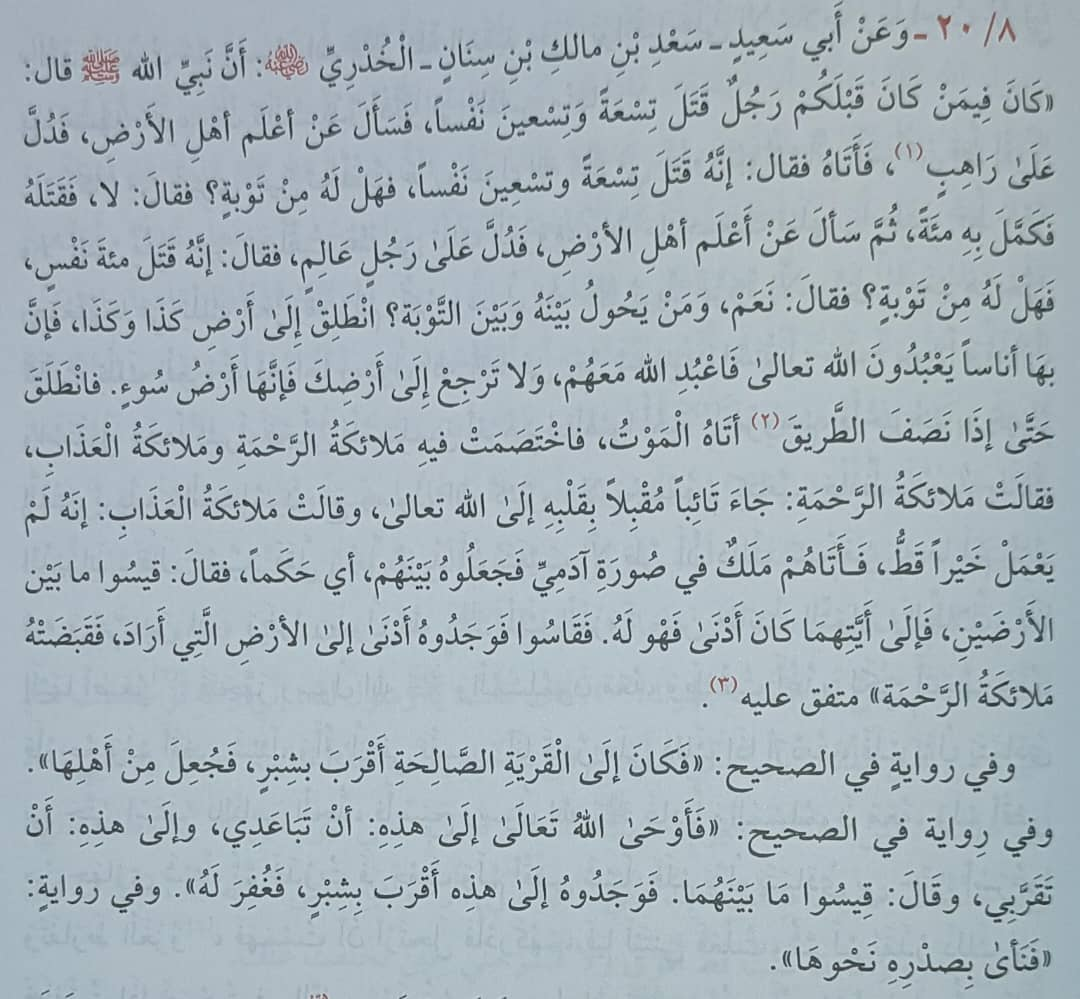
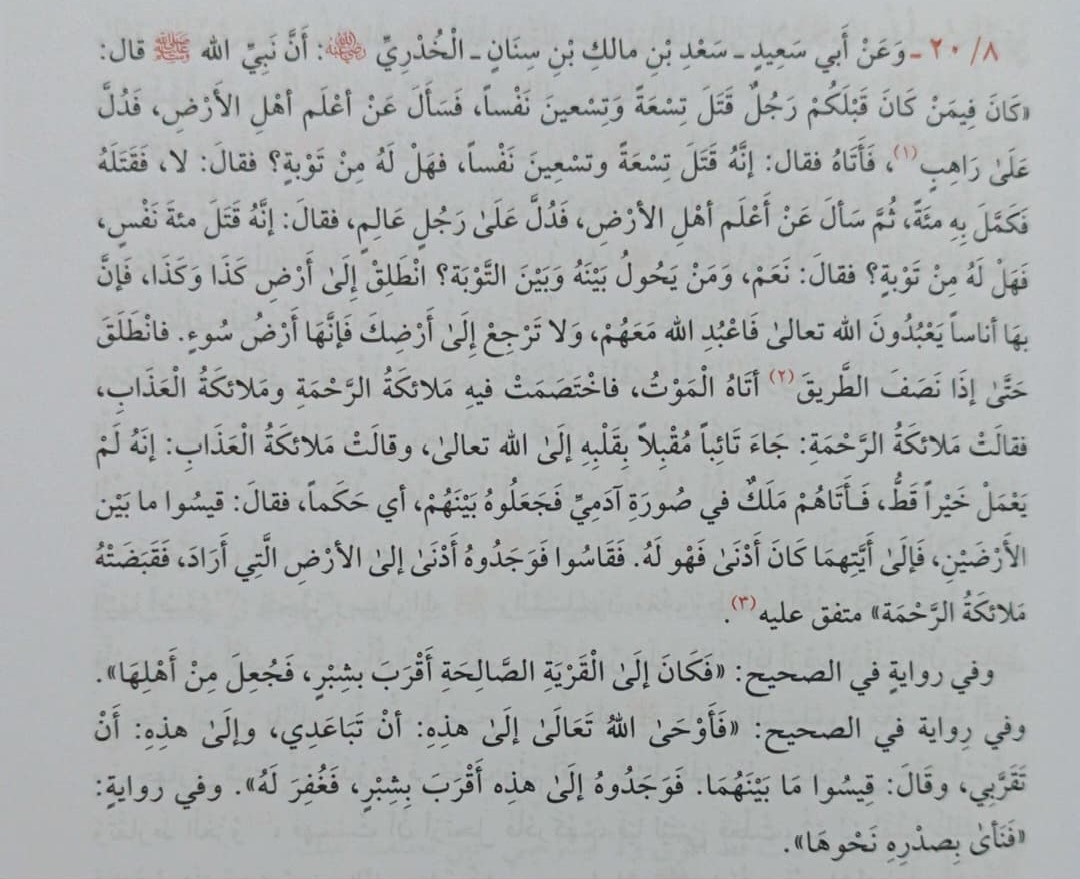
fixat contaxt till bilder för ryad

Changed region(s): [[0.0, 0.0, 1.0, 1.0], [0.9472, 0.7372, 0.9778, 0.7679], [0.0306, 0.7986, 0.0611, 0.8294]]

diff --git a/src/app/components/hadith/ryad/bab-2/hadith-19/hadith-19.component.css b/src/app/components/hadith/ryad/bab-2/hadith-19/hadith-19.component.css
@@ -160,21 +160,59 @@
   display: block;       /* تلغي أي مسافات مخفية تحت الصورة */
   max-width: 100%;      /* تضمن عدم خروجها في الشاشات الصغيرة جداً */
 }
-/* الحاوية الأساسية التي تحل محل الـ div القديم */
+
+/* الحاوية الأساسية المحسنة */
 .hadith-image-container {
-  width: 100%;         /* تأخذ كامل العرض المتاح لها في الصفحة */
-  max-width: 100%;     /* أمان لكي لا تخرج عن إطار الأب */
+  width: 100%;
+  max-width: 100%; /* عرض مرن ومريح للعين */
+  margin: 0px auto;
   display: flex;
   justify-content: center;
   align-items: center;
   box-sizing: border-box;
+  position: relative; /* مهم لإضافة الزخرفة */
 }
 
-/* الصورة المتجاوبة الذكية */
+/* إضافة خطوط زخرفية بسيطة فوق وتحت الصورة */
+.hadith-image-container::before,
+.hadith-image-container::after {
+  content: "";
+  position: absolute;
+  width: 100px;
+  height: 2px;
+  background-color: #c4a77d; /* لون ذهبي/بني دافئ */
+  left: 50%;
+  transform: translateX(-50%);
+}
+
+.hadith-image-container::before {
+  top: -15px;
+}
+
+.hadith-image-container::after {
+  bottom: -15px;
+}
+
+/* الصورة المتجاوبة في التصميم الحديث - نسخة معدلة للتنظيف */
 .responsive-hadith-img {
-  width: 100%;          /* تجبر الصورة على ملء عرض الـ div بالكامل */
-  height: auto;         /* تحافظ على أبعاد الطول والعرض تلقائياً لمنع تمطط الصورة */
-  display: block;       /* تلغي أي مسافات مخفية تحت الصورة */
-  max-width: 100%;      /* تضمن عدم خروجها في الشاشات الصغيرة جداً */
+  width: 100%;
+  height: auto;
+  display: block;
+  max-width: 100%;
+
+  /* الفلاتر السحرية لتفتيح الخلفية الرمادية وتغميق النص */
+  filter: grayscale(1) /* يحول أي ألوان جانبية في الصورة إلى أبيض وأسود */
+          brightness(1.05) /* يزيد إضاءة الخلفية الرمادية ليقربها من الأبيض */
+          contrast(2.8); /* يزيد التباين لكي يصبح النص أسود حاد والخلفية بيضاء تماماً */
+
+  /* الدمج مع الخلفية */
+  mix-blend-mode: multiply; 
+
+  /* إضافات جمالية خفيفة */
+  border-radius: 8px;
+  padding: 15px;
 }
 
+.fix-tilt {
+  transform: rotate(+1.8deg); /* غيري الرقم (مثلاً -2 أو -3) حتى تشوفي الخط صار مستقيم تماماً على الشاشة */
+}

diff --git a/src/app/components/hadith/ryad/bab-2/hadith-21/hadith-21.component.css b/src/app/components/hadith/ryad/bab-2/hadith-21/hadith-21.component.css
@@ -142,21 +142,60 @@
   font-size: var(--current-zoom, 14px);
 }
 
-/* الحاوية الأساسية التي تحل محل الـ div القديم */
+
+
+/* الحاوية الأساسية المحسنة */
 .hadith-image-container {
-  width: 100%;         /* تأخذ كامل العرض المتاح لها في الصفحة */
-  max-width: 100%;     /* أمان لكي لا تخرج عن إطار الأب */
+  width: 100%;
+  max-width: 100%; /* عرض مرن ومريح للعين */
+  margin: 0px auto;
   display: flex;
   justify-content: center;
   align-items: center;
   box-sizing: border-box;
+  position: relative; /* مهم لإضافة الزخرفة */
 }
 
-/* الصورة المتجاوبة الذكية */
+/* إضافة خطوط زخرفية بسيطة فوق وتحت الصورة */
+.hadith-image-container::before,
+.hadith-image-container::after {
+  content: "";
+  position: absolute;
+  width: 100px;
+  height: 2px;
+  background-color: #c4a77d; /* لون ذهبي/بني دافئ */
+  left: 50%;
+  transform: translateX(-50%);
+}
+
+.hadith-image-container::before {
+  top: -15px;
+}
+
+.hadith-image-container::after {
+  bottom: -15px;
+}
+
+/* الصورة المتجاوبة في التصميم الحديث - نسخة معدلة للتنظيف */
 .responsive-hadith-img {
-  width: 100%;          /* تجبر الصورة على ملء عرض الـ div بالكامل */
-  height: auto;         /* تحافظ على أبعاد الطول والعرض تلقائياً لمنع تمطط الصورة */
-  display: block;       /* تلغي أي مسافات مخفية تحت الصورة */
-  max-width: 100%;      /* تضمن عدم خروجها في الشاشات الصغيرة جداً */
+  width: 100%;
+  height: auto;
+  display: block;
+  max-width: 100%;
+
+  /* الفلاتر السحرية لتفتيح الخلفية الرمادية وتغميق النص */
+  filter: grayscale(1) /* يحول أي ألوان جانبية في الصورة إلى أبيض وأسود */
+          brightness(1.01) /* يزيد إضاءة الخلفية الرمادية ليقربها من الأبيض */
+          contrast(2.8); /* يزيد التباين لكي يصبح النص أسود حاد والخلفية بيضاء تماماً */
+
+  /* الدمج مع الخلفية */
+  mix-blend-mode: multiply; 
+
+  /* إضافات جمالية خفيفة */
+  border-radius: 8px;
+  padding: 15px;
 }
 
+.fix-tilt {
+  transform: rotate(+0.6deg); /* غيري الرقم (مثلاً -2 أو -3) حتى تشوفي الخط صار مستقيم تماماً على الشاشة */
+}

diff --git a/src/app/components/hadith/ryad/bab-2/hadith-18/hadith-18.component.css b/src/app/components/hadith/ryad/bab-2/hadith-18/hadith-18.component.css
@@ -144,20 +144,57 @@
 
 
 
-/* الحاوية الأساسية التي تحل محل الـ div القديم */
+/* الحاوية الأساسية المحسنة */
 .hadith-image-container {
-  width: 100%;         /* تأخذ كامل العرض المتاح لها في الصفحة */
-  max-width: 100%;     /* أمان لكي لا تخرج عن إطار الأب */
+  width: 100%;
+  max-width: 100%; /* عرض مرن ومريح للعين */
+  margin: 0px auto;
   display: flex;
   justify-content: center;
   align-items: center;
   box-sizing: border-box;
+  position: relative; /* مهم لإضافة الزخرفة */
 }
 
-/* الصورة المتجاوبة الذكية */
+/* إضافة خطوط زخرفية بسيطة فوق وتحت الصورة */
+.hadith-image-container::before,
+.hadith-image-container::after {
+  content: "";
+  position: absolute;
+  width: 100px;
+  height: 2px;
+  background-color: #c4a77d; /* لون ذهبي/بني دافئ */
+  left: 50%;
+  transform: translateX(-50%);
+}
+
+.hadith-image-container::before {
+  top: -15px;
+}
+
+.hadith-image-container::after {
+  bottom: -15px;
+}
+
+/* الصورة المتجاوبة في التصميم الحديث - نسخة معدلة للتنظيف */
 .responsive-hadith-img {
-  width: 100%;          /* تجبر الصورة على ملء عرض الـ div بالكامل */
-  height: auto;         /* تحافظ على أبعاد الطول والعرض تلقائياً لمنع تمطط الصورة */
-  display: block;       /* تلغي أي مسافات مخفية تحت الصورة */
-  max-width: 100%;      /* تضمن عدم خروجها في الشاشات الصغيرة جداً */
+  width: 100%;
+  height: auto;
+  display: block;
+  max-width: 100%;
+
+  /* الفلاتر السحرية لتفتيح الخلفية الرمادية وتغميق النص */
+  filter: grayscale(1) /* يحول أي ألوان جانبية في الصورة إلى أبيض وأسود */
+          brightness(1.05) /* يزيد إضاءة الخلفية الرمادية ليقربها من الأبيض */
+          contrast(2.8); /* يزيد التباين لكي يصبح النص أسود حاد والخلفية بيضاء تماماً */
+
+  /* الدمج مع الخلفية */
+  mix-blend-mode: multiply; 
+
+  /* إضافات جمالية خفيفة */
+  border-radius: 8px;
+  padding: 15px;
+}
+.fix-tilt {
+  transform: rotate(+1.5deg); /* غيري الرقم (مثلاً -2 أو -3) حتى تشوفي الخط صار مستقيم تماماً على الشاشة */
 }

diff --git a/src/app/components/hadith/ryad/bab-2/hadith-20/hadith-20.component.css b/src/app/components/hadith/ryad/bab-2/hadith-20/hadith-20.component.css
@@ -142,22 +142,55 @@
   font-size: var(--current-zoom, 14px);
 }
 
-/* الحاوية الأساسية التي تحل محل الـ div القديم */
+
+/* الحاوية الأساسية المحسنة */
 .hadith-image-container {
-  width: 100%;         /* تأخذ كامل العرض المتاح لها في الصفحة */
-  max-width: 100%;     /* أمان لكي لا تخرج عن إطار الأب */
+  width: 100%;
+  max-width: 100%; /* عرض مرن ومريح للعين */
+  margin: 0px auto;
   display: flex;
   justify-content: center;
   align-items: center;
   box-sizing: border-box;
+  position: relative; /* مهم لإضافة الزخرفة */
 }
 
-/* الصورة المتجاوبة الذكية */
+/* إضافة خطوط زخرفية بسيطة فوق وتحت الصورة */
+.hadith-image-container::before,
+.hadith-image-container::after {
+  content: "";
+  position: absolute;
+  width: 100px;
+  height: 2px;
+  background-color: #c4a77d; /* لون ذهبي/بني دافئ */
+  left: 50%;
+  transform: translateX(-50%);
+}
+
+.hadith-image-container::before {
+  top: -15px;
+}
+
+.hadith-image-container::after {
+  bottom: -15px;
+}
+
+/* الصورة المتجاوبة في التصميم الحديث - نسخة معدلة للتنظيف */
 .responsive-hadith-img {
-  width: 100%;          /* تجبر الصورة على ملء عرض الـ div بالكامل */
-  height: auto;         /* تحافظ على أبعاد الطول والعرض تلقائياً لمنع تمطط الصورة */
-  display: block;       /* تلغي أي مسافات مخفية تحت الصورة */
-  max-width: 100%;      /* تضمن عدم خروجها في الشاشات الصغيرة جداً */
+  width: 100%;
+  height: auto;
+  display: block;
+  max-width: 100%;
+
+  /* الفلاتر السحرية لتفتيح الخلفية الرمادية وتغميق النص */
+  filter: grayscale(1) /* يحول أي ألوان جانبية في الصورة إلى أبيض وأسود */
+          brightness(1.05) /* يزيد إضاءة الخلفية الرمادية ليقربها من الأبيض */
+          contrast(2.8); /* يزيد التباين لكي يصبح النص أسود حاد والخلفية بيضاء تماماً */
+
+  /* الدمج مع الخلفية */
+  mix-blend-mode: multiply; 
+
+  /* إضافات جمالية خفيفة */
+  border-radius: 8px;
+  padding: 15px;
 }
-
-

diff --git a/src/app/components/hadith/ryad/bab-2/hadith-22/hadith-22.component.css b/src/app/components/hadith/ryad/bab-2/hadith-22/hadith-22.component.css
@@ -143,20 +143,54 @@
 }
 
 
-/* الحاوية الأساسية التي تحل محل الـ div القديم */
+/* الحاوية الأساسية المحسنة */
 .hadith-image-container {
-  width: 100%;         /* تأخذ كامل العرض المتاح لها في الصفحة */
-  max-width: 100%;     /* أمان لكي لا تخرج عن إطار الأب */
+  width: 100%;
+  max-width: 100%; /* عرض مرن ومريح للعين */
+  margin: 0px auto;
   display: flex;
   justify-content: center;
   align-items: center;
   box-sizing: border-box;
+  position: relative; /* مهم لإضافة الزخرفة */
 }
 
-/* الصورة المتجاوبة الذكية */
+/* إضافة خطوط زخرفية بسيطة فوق وتحت الصورة */
+.hadith-image-container::before,
+.hadith-image-container::after {
+  content: "";
+  position: absolute;
+  width: 100px;
+  height: 2px;
+  background-color: #c4a77d; /* لون ذهبي/بني دافئ */
+  left: 50%;
+  transform: translateX(-50%);
+}
+
+.hadith-image-container::before {
+  top: -15px;
+}
+
+.hadith-image-container::after {
+  bottom: -15px;
+}
+
+/* الصورة المتجاوبة في التصميم الحديث - نسخة معدلة للتنظيف */
 .responsive-hadith-img {
-  width: 100%;          /* تجبر الصورة على ملء عرض الـ div بالكامل */
-  height: auto;         /* تحافظ على أبعاد الطول والعرض تلقائياً لمنع تمطط الصورة */
-  display: block;       /* تلغي أي مسافات مخفية تحت الصورة */
-  max-width: 100%;      /* تضمن عدم خروجها في الشاشات الصغيرة جداً */
+  width: 100%;
+  height: auto;
+  display: block;
+  max-width: 100%;
+
+  /* الفلاتر السحرية لتفتيح الخلفية الرمادية وتغميق النص */
+  filter: grayscale(1) /* يحول أي ألوان جانبية في الصورة إلى أبيض وأسود */
+          brightness(1.05) /* يزيد إضاءة الخلفية الرمادية ليقربها من الأبيض */
+          contrast(2.2); /* يزيد التباين لكي يصبح النص أسود حاد والخلفية بيضاء تماماً */
+
+  /* الدمج مع الخلفية */
+  mix-blend-mode: multiply; 
+
+  /* إضافات جمالية خفيفة */
+  border-radius: 8px;
+  padding: 15px;
 }

diff --git a/src/app/components/hadith/ryad/bab-2/hadith-19/hadith-19.component.html b/src/app/components/hadith/ryad/bab-2/hadith-19/hadith-19.component.html
@@ -85,7 +85,7 @@
         </p>
 -->
     <div class="hadith-image-container">
-  <img src="/images/ryad/ryad-bab2-7.jpeg" alt=" الحديث 7 من باب 2. الرجاء الاتصال بالانترنيت لتحميل الصورة" class="responsive-hadith-img">
+  <img src="/images/ryad/ryad-bab2-7.jpeg" alt=" الحديث 7 من باب 2. الرجاء الاتصال بالانترنيت لتحميل الصورة" class="responsive-hadith-img  fix-tilt">
 </div>
       <div class="tafsir-toggle-wrapper">
         <button class="modern-tafsir-toggle-btn" (click)="toggleExplanation()">

diff --git a/src/app/components/hadith/ryad/bab-2/hadith-21/hadith-21.component.html b/src/app/components/hadith/ryad/bab-2/hadith-21/hadith-21.component.html
@@ -85,7 +85,7 @@
         </p>
 -->
     <div class="hadith-image-container">
-  <img src="/images/ryad/ryad-bab2-10.jpeg" alt="الحديث 9 من باب 2. الرجاء الاتصال بالانترنيت لتحميل الصورة" class="responsive-hadith-img">
+  <img src="/images/ryad/ryad-bab2-10.jpeg" alt="الحديث 9 من باب 2. الرجاء الاتصال بالانترنيت لتحميل الصورة" class="responsive-hadith-img fix-tilt">
 </div>
       <div class="tafsir-toggle-wrapper">
         <button class="modern-tafsir-toggle-btn" (click)="toggleExplanation()">

diff --git a/src/app/components/hadith/ryad/bab-2/hadith-18/hadith-18.component.html b/src/app/components/hadith/ryad/bab-2/hadith-18/hadith-18.component.html
@@ -86,7 +86,7 @@
         </p>
 -->
     <div class="hadith-image-container">
-  <img src="/images/ryad/ryad-bab2-6.jpeg" alt=" الحديث 6 من باب 2. الرجاء الاتصال بالانترنيت لتحميل الصورة" class="responsive-hadith-img">
+  <img src="/images/ryad/ryad-bab2-6.jpeg" alt=" الحديث 6 من باب 2. الرجاء الاتصال بالانترنيت لتحميل الصورة" class="responsive-hadith-img fix-tilt">
 </div>
       </div>
       <div class="tafsir-toggle-wrapper">
